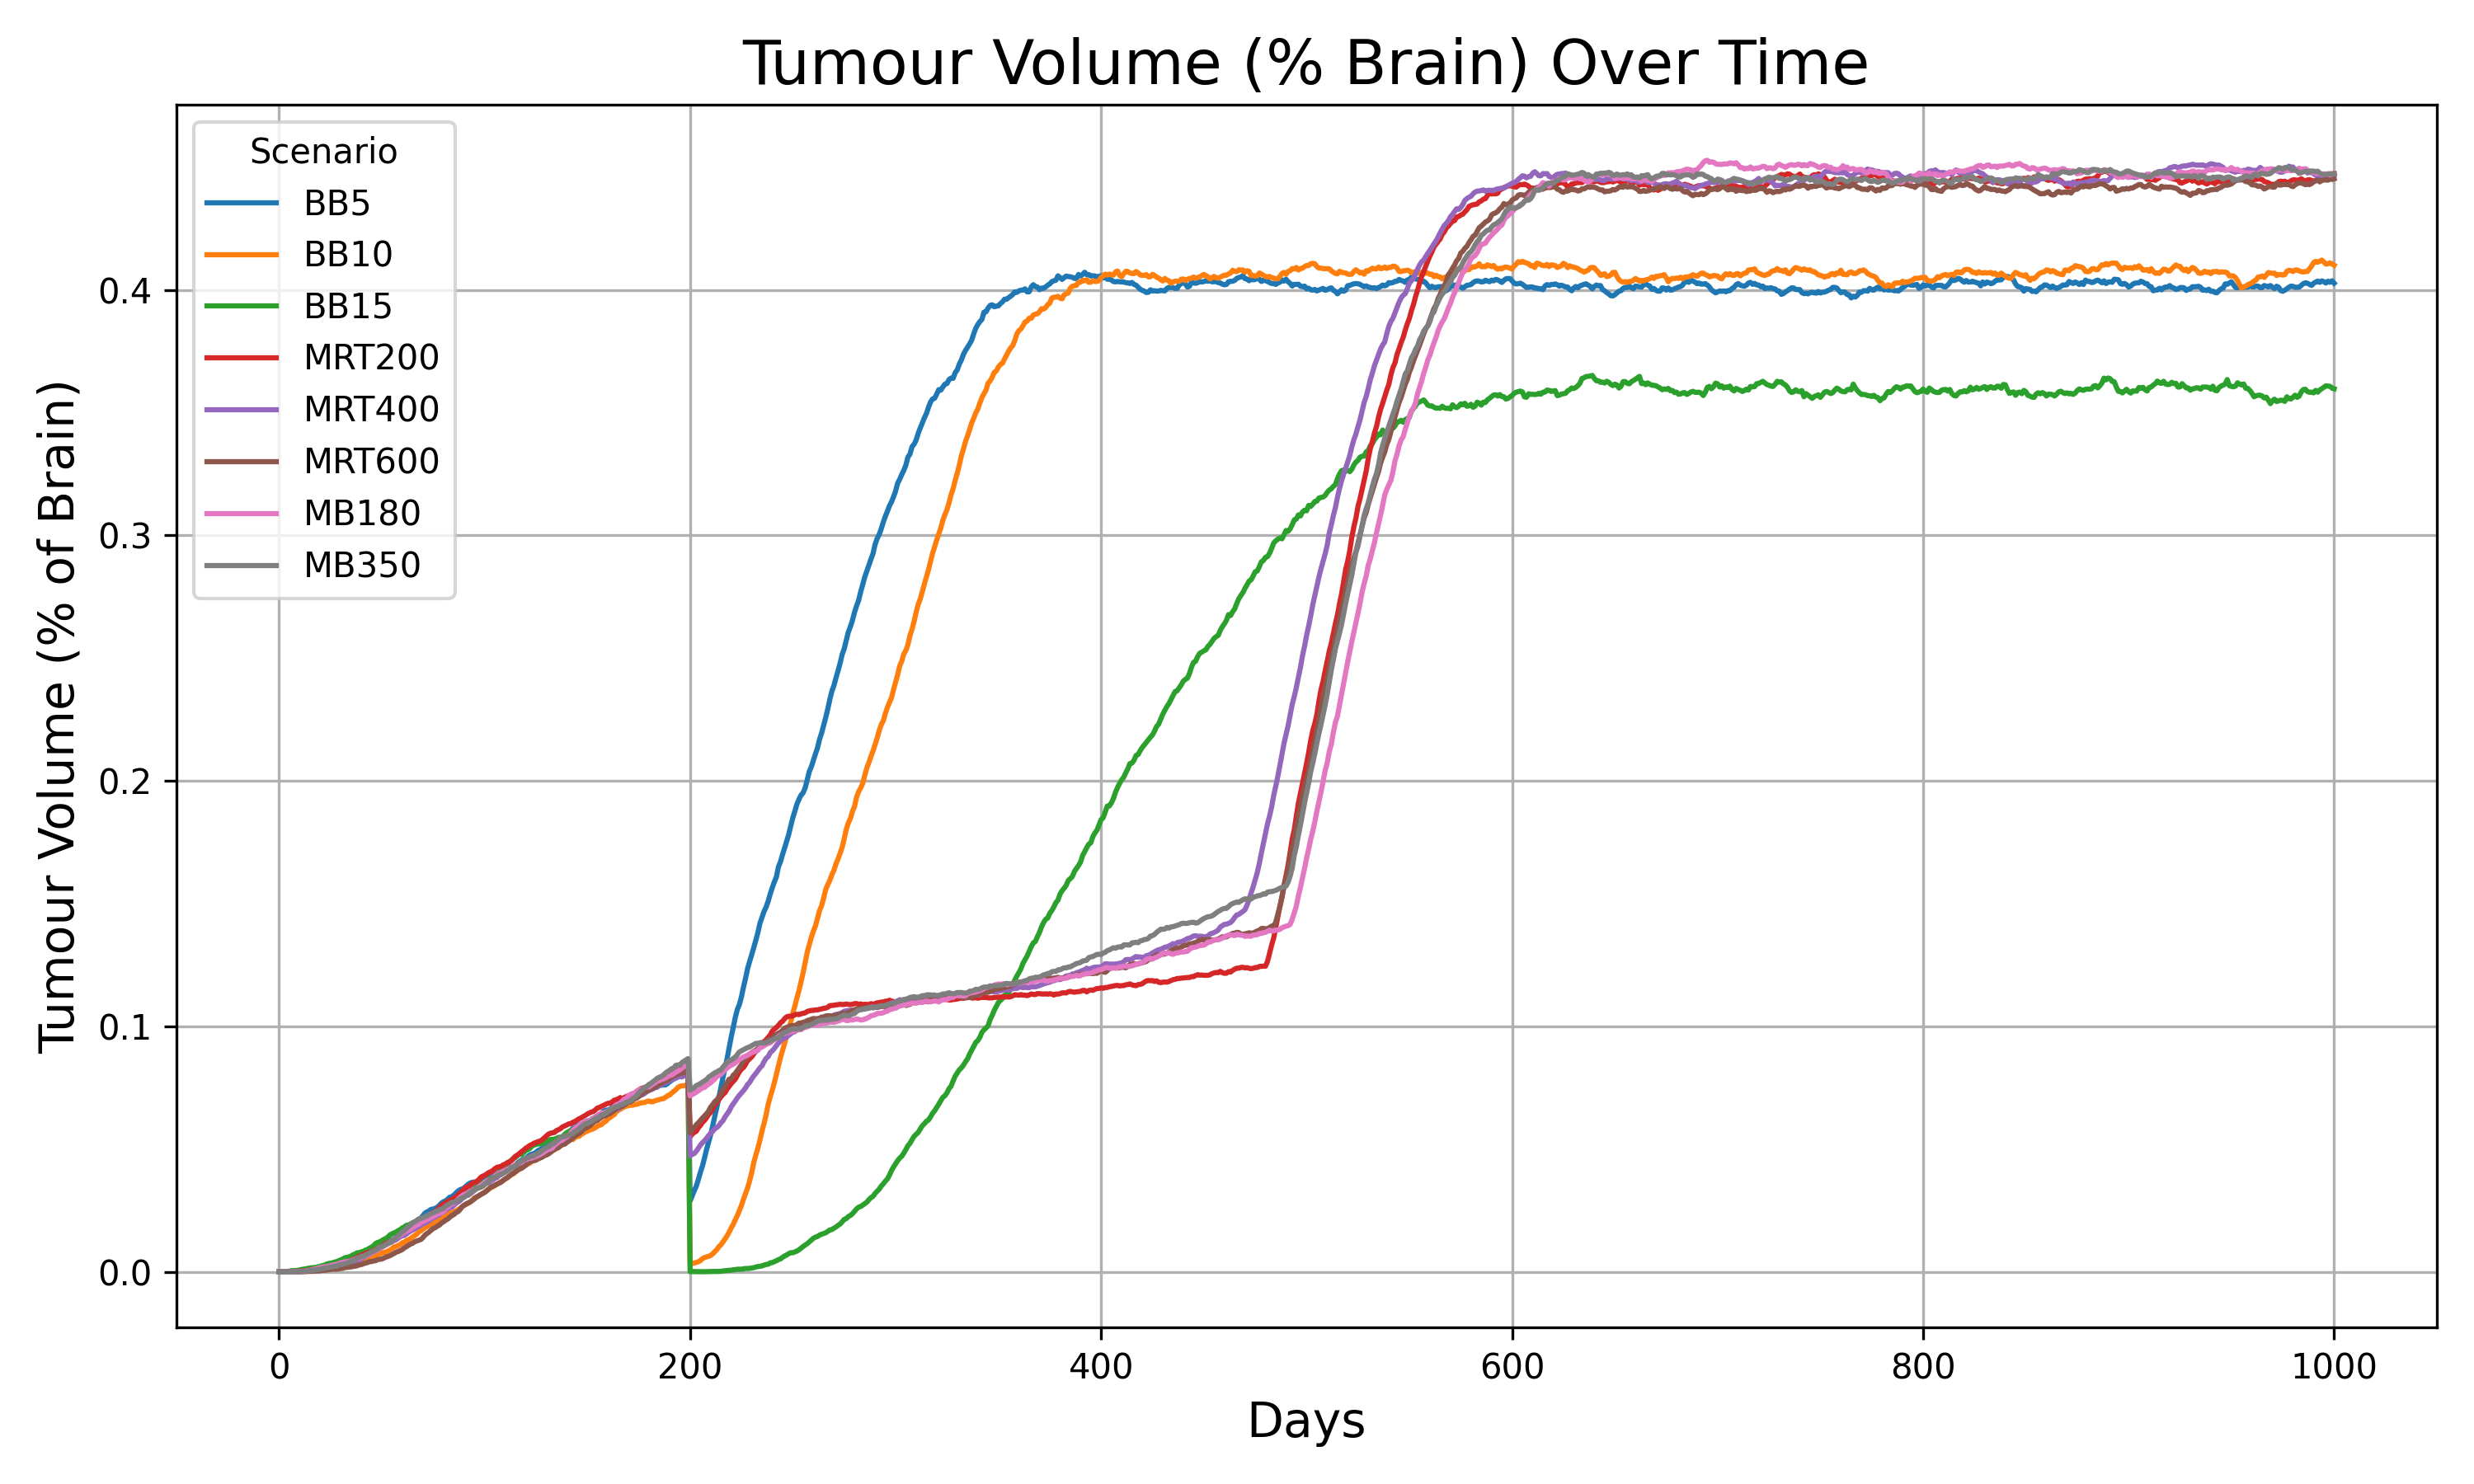
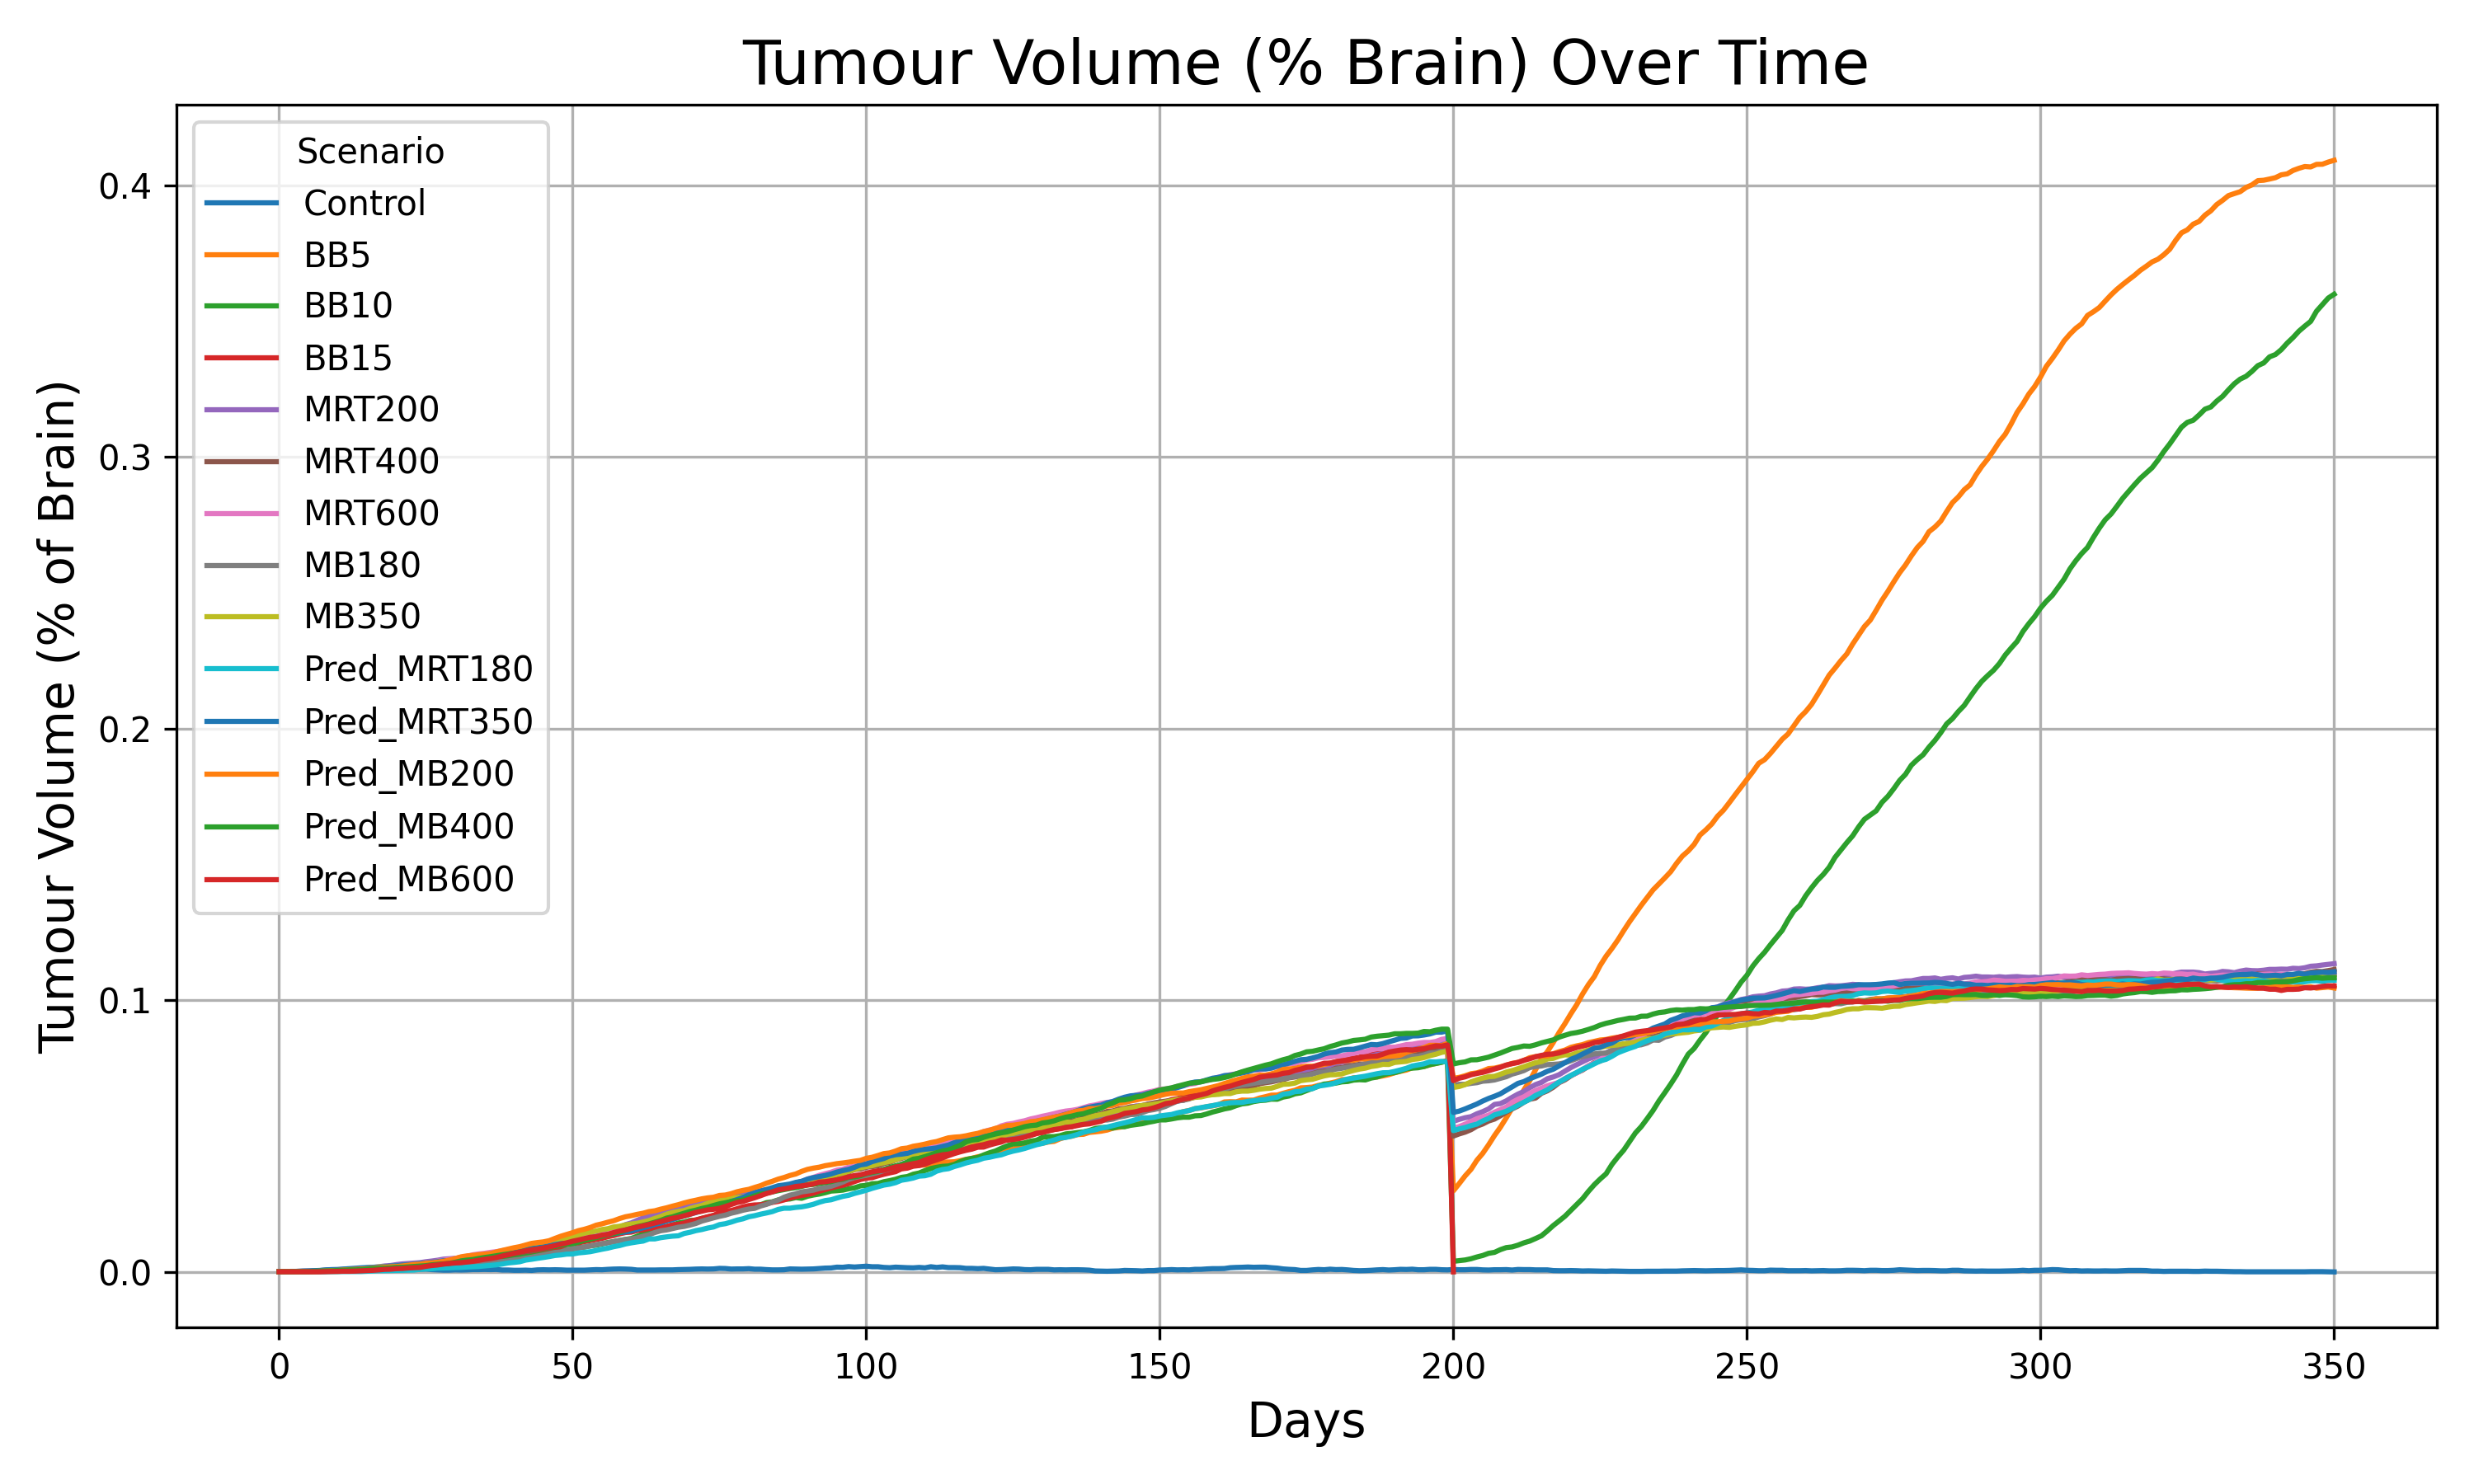
Adding graphs with slope calc

diff --git a/analysis/generate_tumour_volume_csv_and_plot.py b/analysis/generate_tumour_volume_csv_and_plot.py
@@ -10,7 +10,6 @@ root_path = '/Users/tanayabowade/Downloads/ABM_GliobMul/HALModeling2024Outs'
 scenarios = ['Control','BB5', 'BB10', 'BB15', 'MRT200', 'MRT400', 'MRT600', 'MB180', 'MB350','Pred_MRT180','Pred_MRT350','Pred_MB200','Pred_MB400','Pred_MB600']
 
 
-
 # ------------------------------------------------------------------------
 # Tumour Volume Estimation: Matching Paper's "% of Brain Volume" Graph
 # ------------------------------------------------------------------------
@@ -143,52 +142,77 @@ plt.savefig("TumorVolumePercent_T200_T300.png", dpi=300)
 plt.show()
 plt.close()
 
-# ------------------- Saving individual plots treatment-wise --------------
-#
-# if not os.path.exists('TumorVolumePercent.csv'):
-#     print("TumorVolumePercent.csv not found!")
-#     exit()
-#
-# # Load the tumour volume percentage data
-# df = pd.read_csv('TumorVolumePercent.csv')
-# print("Columns in dataframe:", df.columns.tolist())
-#
-#
-# # Get the timestep column
-# timesteps = df['Timestep']
-#
-# # Loop through each treatment column and generate a separate plot
-# output_dir = "IndividualScenarioPlots"
-# os.makedirs(output_dir, exist_ok=True)
-#
-# for scenario in df.columns[1:]:  # Skip the 'Timestep' column
-#     plt.figure(figsize=(8, 5))
-#     plt.plot(timesteps, df[scenario], label=scenario, color='blue', marker='o', markersize=2)
-#     plt.title(f"Tumour Volume (% Brain) — {scenario}", fontsize=14)
-#     plt.xlabel("Days", fontsize=12)
-#     plt.ylabel("Tumour Volume (% of Brain)", fontsize=12)
-#     plt.grid(True)
-#     plt.tight_layout()
-#     plt.legend()
-#     plt.savefig(os.path.join(output_dir, f"{scenario}_TumourVolumePercent.png"), dpi=300)
-#     plt.close()
-#
-# print(f"Saved individual plots in folder: {output_dir}")
+
+
+# -------------------- All plots together with error bars from timetep 200-300 -----------------------
+
+start_timestep = 200
+end_timestep = 300
+
+selected_timesteps = [212, 220, 230, 240, 250, 260]
+scenarios = ['Control','BB5', 'BB10', 'BB15', 'MRT200', 'MRT400', 'MRT600', 'MB180', 'MB350']
+
+
+# Storage for mean/std by scenario
+scenario_means = {}
+scenario_stds = {}
+
+plt.figure(figsize=(10, 6))
+
+for scenario in scenarios:
+    scenario_folder = os.path.join(root_path, f'Scenario{scenario}')
+    pattern = os.path.join(scenario_folder, 'TrialRunCounts_*.csv')
+    files = glob.glob(pattern)
+
+    if not files:
+        print(f"❌ No files for {scenario}")
+        continue
+
+    all_trials = []
+
+    for file in files:
+        df = pd.read_csv(file)
+        df['TumourVolumePercent'] = (df['TumorCells'] * CELL_VOLUME_MM3 / BRAIN_VOLUME_MM3) * 100
+        df = df[(df['Timestep'] >= start_timestep) & (df['Timestep'] <= end_timestep)]
+        all_trials.append(df[['Timestep', 'TumourVolumePercent']])
+
+    merged_df = pd.concat(all_trials, axis=0)
+    grouped = merged_df.groupby('Timestep')['TumourVolumePercent']
+    mean_series = grouped.mean()
+    std_series = grouped.std()
+
+    # Save for error bars
+    scenario_means[scenario] = mean_series
+    scenario_stds[scenario] = std_series
+
+    # Plot mean line
+    plt.plot(mean_series.index, mean_series.values, label=scenario)
+
+    # Add error bars at selected timesteps
+    err_x = [t for t in selected_timesteps if t in mean_series.index]
+    err_y = mean_series.loc[err_x].values
+    err_std = std_series.loc[err_x].values
+    plt.errorbar(err_x, err_y, yerr=err_std, fmt='o', capsize=4, color=plt.gca().lines[-1].get_color())
+
+# Final touches
+plt.title("Tumour Volume (% Brain) — Timestep 200–300 with Error Bars", fontsize=18)
+plt.xlabel("Timestep", fontsize=14)
+plt.ylabel("Tumour Volume (% of Brain)", fontsize=14)
+plt.legend(title="Scenario", fontsize=9)
+plt.grid(True)
+plt.tight_layout()
+plt.savefig("TumorVolumePercent_T200_T300_ErrorBars.png", dpi=300)
+plt.show()
+plt.close()
 
 
 # ------------------- Saving individual plots treatment-wise with error bars--------------
 
-# Key timesteps you want error bars on (like in the paper)
-selected_timesteps = [212, 220, 230, 240, 250, 260]
-
-# Simulation assumptions
-CELL_VOLUME_MM3 = 0.001
-BRAIN_VOLUME_MM3 = 2000
-
-# Folder where all trial folders per scenario exist
-root_path = '/Users/tanayabowade/Downloads/ABM_GliobMul/HALModeling2024Outs'
 output_dir = "IndividualScenarioErrorPlots"
 os.makedirs(output_dir, exist_ok=True)
+
+scenarios = ['Control','BB5', 'BB10', 'BB15', 'MRT200', 'MRT400', 'MRT600', 'MB180', 'MB350','Pred_MRT180','Pred_MRT350','Pred_MB200','Pred_MB400','Pred_MB600']
+
 
 for scenario in scenarios:
     scenario_folder = os.path.join(root_path, f'Scenario{scenario}')

diff --git a/analysis/clinical_vs_sim.py b/analysis/clinical_vs_sim.py
@@ -1,0 +1,89 @@
+import matplotlib.pyplot as plt
+import numpy as np
+from scipy.stats import linregress
+import pandas as pd
+from sklearn.linear_model import LinearRegression
+
+
+# ----------- Calculating clinical trial slope -------------
+
+# Provided coordinates (x = survival days, y = tumour volume %)
+data = {
+    "Control": [(12, 2), (20, 12), (24, 18)],
+    "BB5": [(12, 2), (21, 20)],
+    "BB10": [(12, 2), (28, 15), (38, 28)],
+    "BB15": [(12, 2), (42, 25)],
+    "MB180": [(12, 2), (25, 10), (29, 13)],
+    "MRT200": [(12, 2), (21, 2), (26, 14), (29, 15)],
+    "MRT400": [(12, 2), (49, 68), (57, 40), (62, 0)],
+    "MRT600": [(12, 2), (54, 18), (62, 0)]
+}
+
+clinical_slopes = {}
+plt.figure(figsize=(10, 6))
+
+# Plot each treatment and compute slope
+for treatment, points in data.items():
+    x, y = zip(*points)
+    slope, intercept, r_value, p_value, std_err = linregress(x, y)
+    clinical_slopes[treatment] = slope
+    plt.plot(x, y, marker='o', label=f"{treatment} (slope={slope:.2f})")
+
+# Graph formatting
+plt.title("Tumour Volume Growth Slopes (Clinical Data)")
+plt.xlabel("Survival Days")
+plt.ylabel("Tumour Volume (%)")
+plt.legend()
+plt.grid(True)
+plt.tight_layout()
+
+# Display slopes
+slope_df = pd.DataFrame(clinical_slopes.items(), columns=["Treatment", "Slope"])
+
+print(slope_df)
+
+
+# ----- Calculating ABM graphs slopes -----------
+
+# Load ABM tumour % data
+df = pd.read_csv('TumorVolumePercent.csv')
+
+# Define the range to fit slope
+start = 212
+end = 260
+timesteps = df['Timestep'].values.reshape(-1, 1)
+selected_range = (df['Timestep'] >= start) & (df['Timestep'] <= end)
+
+abm_slopes = {}
+
+for scenario in df.columns[1:]:  # Skip 'Timestep'
+    y = df.loc[selected_range, scenario].values
+    x = df.loc[selected_range, 'Timestep'].values.reshape(-1, 1)
+
+    model = LinearRegression().fit(x, y)
+    slope = model.coef_[0]
+    abm_slopes[scenario] = slope * 100  # Convert to % per day
+
+# Display
+for scenario, slope in abm_slopes.items():
+    print(f"{scenario}: {slope:.4f}% tumour growth per day")
+
+
+# -------------- Comparing slopes Clinical vs ABM --------------------
+
+
+
+
+treatments = clinical_slopes.keys()
+x = np.arange(len(treatments))
+
+plt.figure(figsize=(10, 5))
+plt.bar(x - 0.15, [clinical_slopes[t] for t in treatments], width=0.3, label='Clinical')
+plt.bar(x + 0.15, [abm_slopes[t] for t in treatments], width=0.3, label='ABM')
+plt.xticks(x, treatments)
+plt.ylabel("Tumour Growth Slope (%/day)")
+plt.title("Comparison of Tumour Growth Slopes (Clinical vs ABM)")
+plt.legend()
+plt.tight_layout()
+plt.savefig("SlopeComparison.png")
+plt.show()